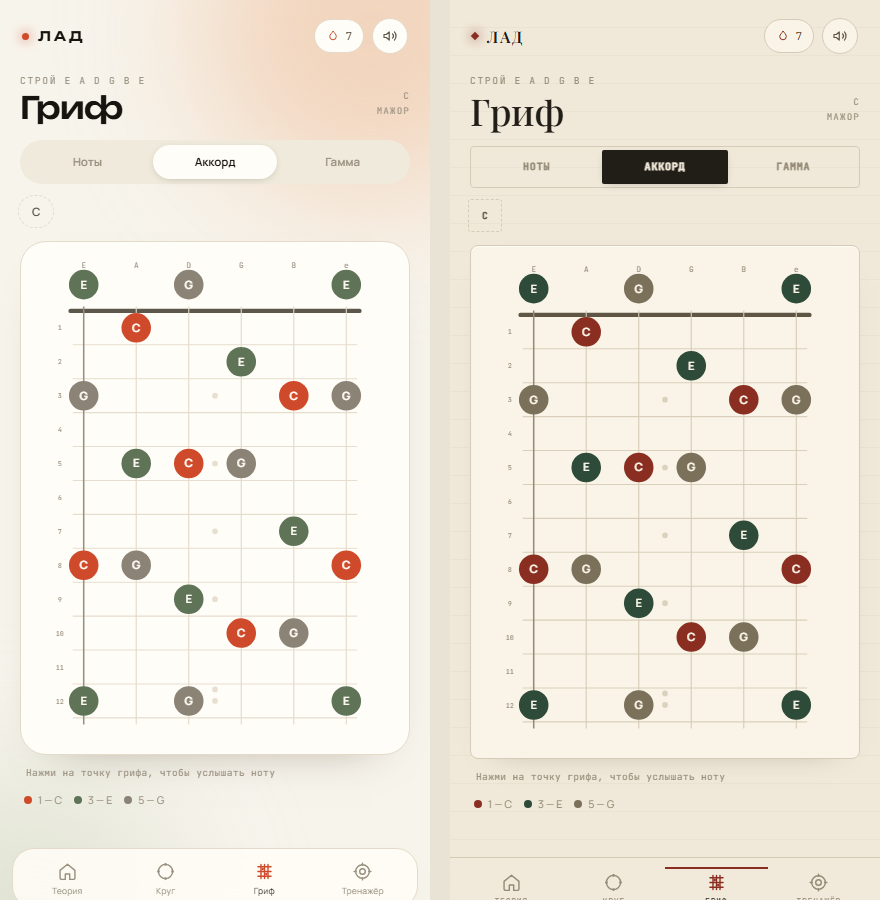
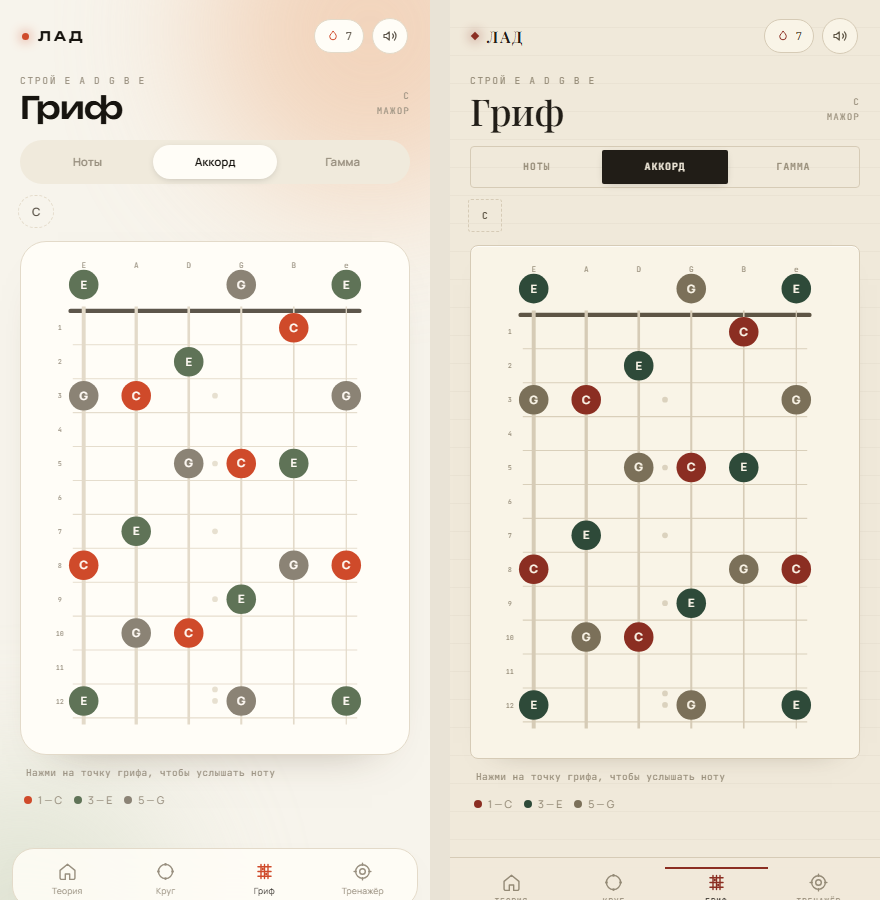
Гриф: 6-я струна (толстая) слева, 1-я (тонкая) справа

diff --git a/assets/app.js b/assets/app.js
@@ -422,11 +422,11 @@
     }
     out.push(`<line class="fb-nut" x1="${X0 - 12}" y1="${Y0}" x2="${X0 + 5 * SX + 12}" y2="${Y0}"/>`);
 
-    // струны
+    // струны: слева 6-я (толстая E), справа 1-я (тонкая e)
+    const STR_W = [3.6, 3.0, 2.4, 1.9, 1.5, 1.1];
     for (let k = 0; k < 6; k++) {
       const x = X0 + k * SX;
-      const thick = k === 0 ? " thick" : "";
-      out.push(`<line class="fb-string${thick}" x1="${x}" y1="${Y0 - 4}" x2="${x}" y2="${BOT + 6}"/>`);
+      out.push(`<line class="fb-string" x1="${x}" y1="${Y0 - 4}" x2="${x}" y2="${BOT + 6}" stroke-width="${STR_W[k]}"/>`);
       out.push(`<text class="fb-string-name" x="${x}" y="13" text-anchor="middle">${["E", "A", "D", "G", "B", "e"][k]}</text>`);
     }
 
@@ -442,7 +442,7 @@
     if (notes) {
       for (let s = 0; s < 6; s++) {
         if (onlyString !== null && onlyString !== undefined && s !== onlyString) continue;
-        const midiBase = TUNING[5 - s];
+        const midiBase = TUNING[s];
         for (let f = 0; f <= 12; f++) {
           const pc = pcOf(midiBase + f);
           if (onlyPc !== null && pc !== onlyPc) continue;
@@ -470,9 +470,9 @@
       for (let s = 0; s < 6; s++) {
         if (onlyString !== null && onlyString !== undefined && s !== onlyString) continue;
         const x = X0 + s * SX - SX / 2;
-        out.push(`<rect class="fb-hit" data-act="fret" data-string="${5 - s}" data-fret="0" x="${(x + 2).toFixed(2)}" y="${Y0 - 38}" width="${SX - 4}" height="38"/>`);
+        out.push(`<rect class="fb-hit" data-act="fret" data-string="${s}" data-fret="0" x="${(x + 2).toFixed(2)}" y="${Y0 - 38}" width="${SX - 4}" height="38"/>`);
         for (let f = 1; f <= 12; f++) {
-          out.push(`<rect class="fb-hit" data-act="fret" data-string="${5 - s}" data-fret="${f}" x="${(x + 2).toFixed(2)}" y="${(Y0 + (f - 1) * FY).toFixed(2)}" width="${SX - 4}" height="${FY}"/>`);
+          out.push(`<rect class="fb-hit" data-act="fret" data-string="${s}" data-fret="${f}" x="${(x + 2).toFixed(2)}" y="${(Y0 + (f - 1) * FY).toFixed(2)}" width="${SX - 4}" height="${FY}"/>`);
         }
       }
     }
@@ -1032,7 +1032,7 @@
           const pcs = (state.neckMode === "scale" ? scaleData().notes : chordData().notes).map((n) => n.pc);
           const name = ROOT_NAMES[(TUNING[+el.dataset.string] + +el.dataset.fret) % 12];
           const ro = $("#neckReadout");
-          if (ro) ro.innerHTML = `<span>${+el.dataset.string + 1}-я струна · ${el.dataset.fret} лад</span><b>${name}</b>`;
+          if (ro) ro.innerHTML = `<span>${6 - (+el.dataset.string)}-я струна · ${el.dataset.fret} лад</span><b>${name}</b>`;
           pluck(TUNING[+el.dataset.string] + +el.dataset.fret, undefined, 1.2, 0.15);
           break;
         }

diff --git a/assets/app.css b/assets/app.css
@@ -498,8 +498,7 @@ input[type="range"]::-moz-range-thumb { width: 18px; height: 18px; border-radius
 /* ------------------------------------------------ neck */
 .neck-card { padding: 12px 8px 6px; overflow: hidden; }
 .neck-card > svg { display: block; width: 100%; height: auto; }
-.fb-string { stroke: var(--line); stroke-width: 1; }
-.fb-string.thick { stroke: var(--ink-3); stroke-width: 1.4; }
+.fb-string { stroke: var(--line); }
 .fb-fret { stroke: var(--line); stroke-width: 1; opacity: .9; }
 .fb-nut { stroke: var(--ink-2); stroke-width: 4; stroke-linecap: round; }
 .fb-fretnum { font-family: "JetBrains Mono", monospace; font-size: 6px; fill: var(--ink-3); }
